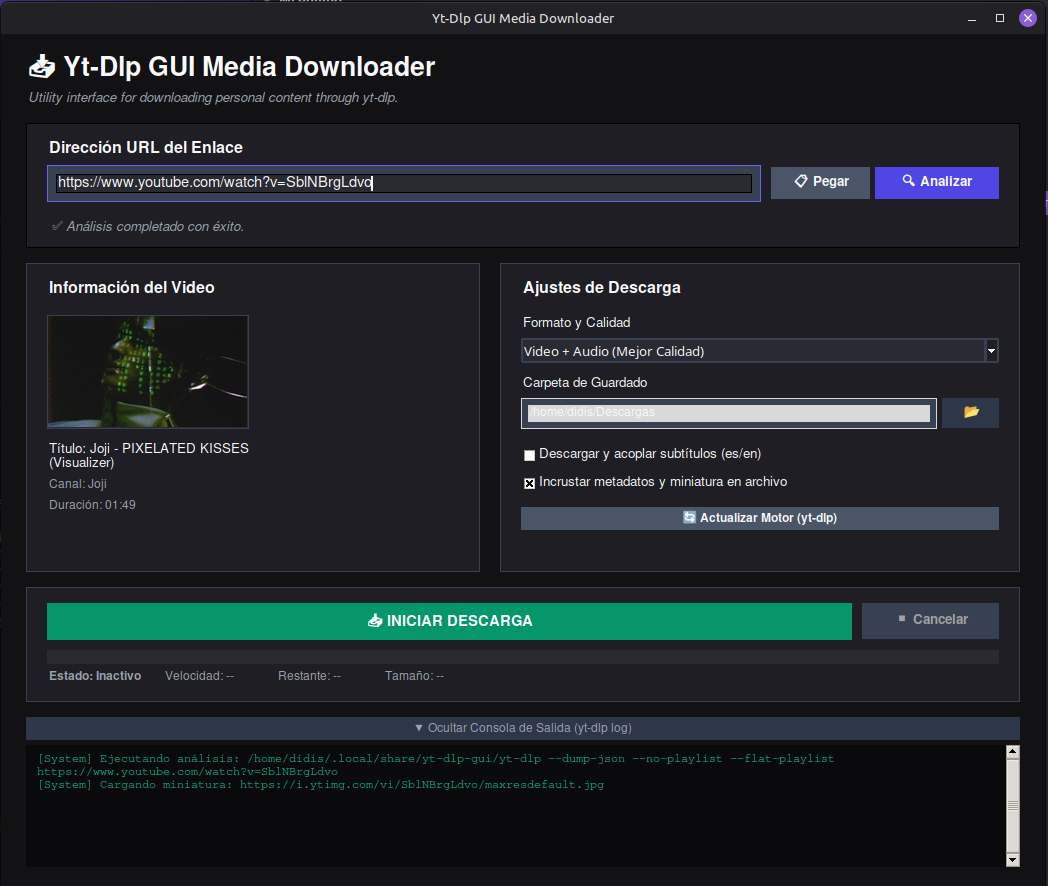
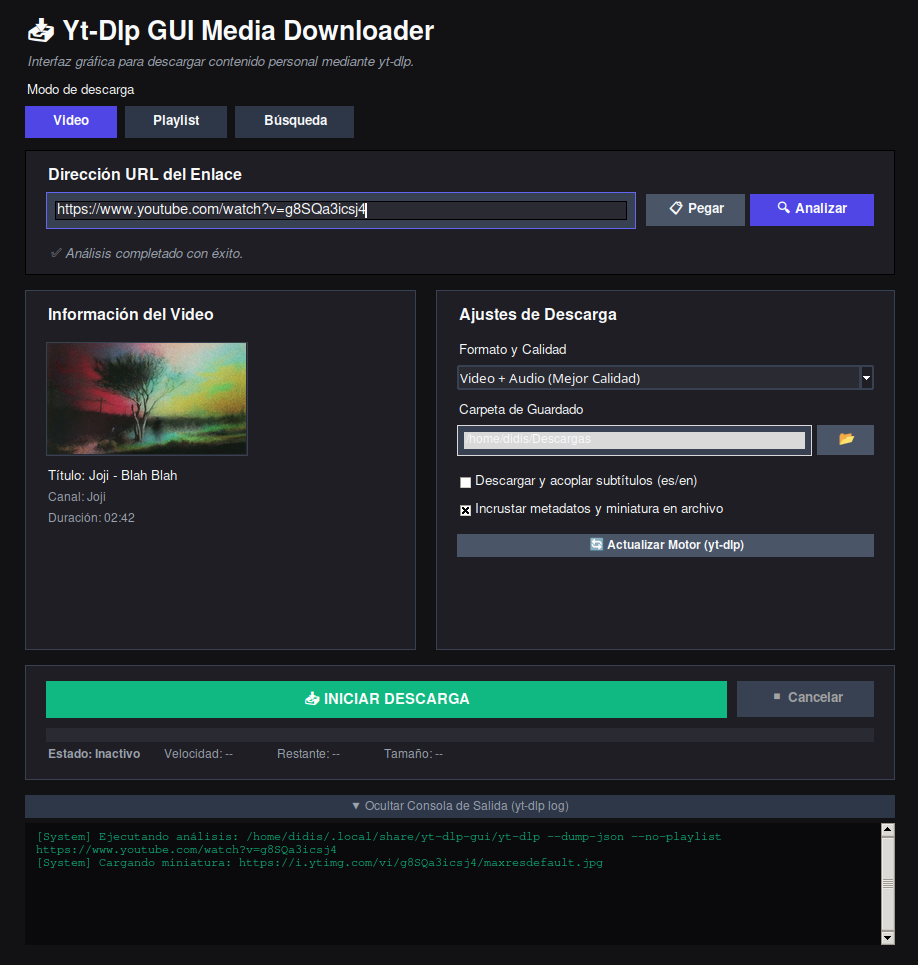
Updated pics

diff --git a/README.md b/README.md
@@ -49,9 +49,9 @@ Introduce un término de búsqueda para encontrar vídeos en YouTube. Selecciona
 
 ## Capturas
 
-| Pantalla principal |
-|--------------------|
-| ![](docs/main.png) |
+| Video | Playlist | Buscar |
+|--------------------|-----------------------|----------------------|
+| ![](docs/main.png) | ![](docs/main2.png) | ![](docs/main3.png) |
 
 ---
 